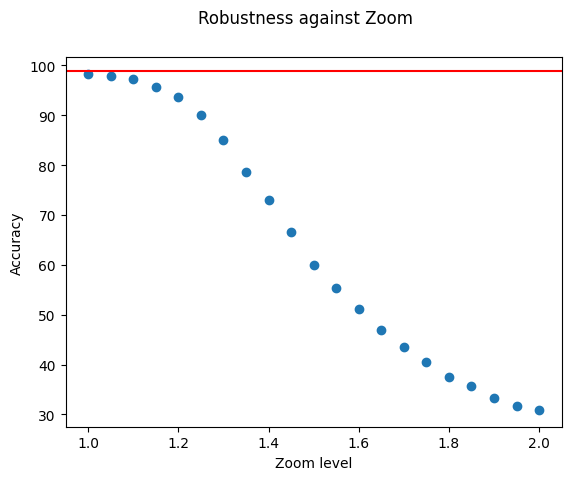
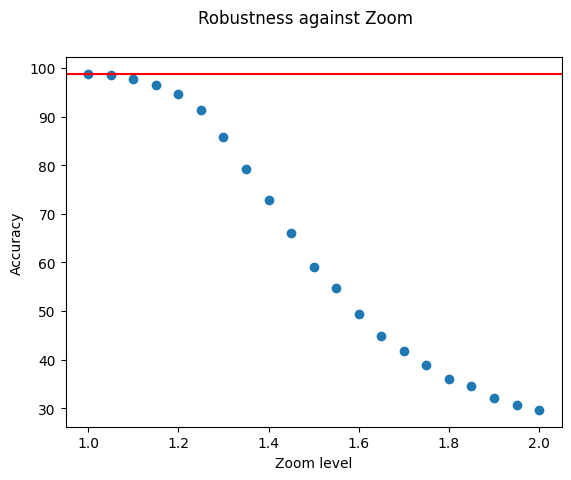
Chapter 6 complete

diff --git a/drafting/TextFiles/RobustnessEval/ExperimentalResults/Zoom.tex b/drafting/TextFiles/RobustnessEval/ExperimentalResults/Zoom.tex
@@ -48,7 +48,7 @@ The uncertainties estimated by the BNN exhibit a defined pattern in this case, a
 \textbf{Classification using aleatoric uncertainty}
 \vspace{0.1cm}
 
-\todo{wating loading}
+The utilization of aleatoric uncertainty yields the results shown in \Fig~\ref{fig:zo_au}. \Fig~\ref{fig:zo_au_acc} indicates a slight improvement in accuracy. However, there is a substantial increase in the unknown ratio, as depicted in \Fig~\ref{fig:zo_au_unkn}. This trade-off between accuracy and unknown ratio is further illustrated in \Fig~\ref{fig:zo_au_eff}, where the effectiveness metric reflects the degradation in performance.
 
 \begin{figure}[h]
 	\centering
@@ -74,7 +74,9 @@ The uncertainties estimated by the BNN exhibit a defined pattern in this case, a
 	\label{fig:zo_au}
 \end{figure}
 
-\Tab~\ref{table:rob_zo_au} presents the quantitative robustness measurements.
+
+\Tab~\ref{table:rob_zo_au} provides the quantitative robustness measurements. While there is a slight improvement in accuracy reflected in the $rob$ metric, the augmented robustness metric demonstrates the poor performance due to the substantial increase in the unknown ratio.
+
 \begin{table}[h]
 	\centering
 	\begin{tabular}{|| l | l ||} 
@@ -82,9 +84,9 @@ The uncertainties estimated by the BNN exhibit a defined pattern in this case, a
 		\textbf{Parameter} & \textbf{Value} \\
 		\hline
 		\hline
-		$rob_{Zoom}$ & $0.7974$ \\
-		$robInd_{Zoom}$ & $0.8667$ \\
-		$robAug_{Zoom}$ & $0.7124$ \\	
+		$rob_{Zoom}$ & $0.7950$ \\
+		$robInd_{Zoom}$ & $0.8901$ \\
+		$robAug_{Zoom}$ & $0.7209$ \\	
 		\hline
 	\end{tabular}	
 	\caption{Robustness metrics for zoom when the aleatoric uncertainty is employed}
@@ -130,9 +132,9 @@ The outcomes obtained using epistemic uncertainty are displayed in \Fig~\ref{fig
 		\textbf{Parameter} & \textbf{Value} \\
 		\hline
 		\hline
-		$rob_{Zoom}$ & $0.7991$ \\
-		$robInd_{Zoom}$ & $0.8598$ \\
-		$robAug_{Zoom}$ & $0.7060$ \\	
+		$rob_{Zoom}$ & $0.7988$ \\
+		$robInd_{Zoom}$ & $0.8560$ \\
+		$robAug_{Zoom}$ & $0.7058$ \\	
 		\hline
 	\end{tabular}	
 	\caption{Robustness metrics for zoom alteration when the epistemic uncertainty is employed}
@@ -143,7 +145,9 @@ The outcomes obtained using epistemic uncertainty are displayed in \Fig~\ref{fig
 \textbf{Classification using standard deviation}
 \vspace{0.1cm}
 
-The results obtained when using standard deviation, as illustrated in \Fig~\ref{fig:zo_vu}, exhibit the same behavior as when using aleatoric uncertainty.
+The results obtained when using standard deviation, as illustrated in \Fig~\ref{fig:zo_vu}, exhibit the same behavior as when using aleatoric uncertainty. As always, the standard deviation is more pessimistic, leading to a better trend in accuracy, \Fig~\ref{fig:zo_vu_acc}, but balanced by a high unknown ratio, \Fig~\ref{fig:zo_vu_unkn}.
+
+\Fig~\ref{fig:zo_vu} exhibits the same behavior as when using aleatoric uncertainty. As usual, the standard deviation is more pessimistic, leading to a better trend in accuracy, \Fig~\ref{fig:zo_vu_acc}, but this is balanced by a high unknown ratio, seen in \Fig~\ref{fig:zo_vu_unkn}.
 
 \begin{figure}[h]
 	\centering
@@ -157,7 +161,7 @@ The results obtained when using standard deviation, as illustrated in \Fig~\ref{
 		\centering
 		\includegraphics[width=0.9\linewidth]{ImageFiles/EvalBNN/ZO/VU/unkn}
 		\caption{Unknown ratio using \\ standard deviation}
-		\label{fig:co_vu_unkn}
+		\label{fig:zo_vu_unkn}
 	\end{subfigure}%
 	\begin{subfigure}{.33\textwidth}
 		\centering
@@ -178,9 +182,9 @@ The results obtained when using standard deviation, as illustrated in \Fig~\ref{
 		\textbf{Parameter} & \textbf{Value} \\
 		\hline
 		\hline
-		$rob_{Zoom}$ & $0.8102$ \\
+		$rob_{Zoom}$ & $0.8101$ \\
 		$robInd_{Zoom}$ & $0.8432$ \\
-		$robAug_{Zoom}$ & $0.7032$ \\	
+		$robAug_{Zoom}$ & $0.7031$ \\	
 		\hline
 	\end{tabular}	
 	\caption{Robustness metrics for zoom when the standard deviation is employed}
@@ -191,7 +195,7 @@ The results obtained when using standard deviation, as illustrated in \Fig~\ref{
 \textbf{Comparison}
 \vspace{0.1cm}
 
-Table~\ref{table:rob_zo} presents a comparison of the computed metrics. It is evident that the network lacks robustness for any uncertainty type. In this scenario, a possible solution could be to change the network architecture or employ techniques for improving robustness, such as \textit{data augmentation}. Additionally, revising the alteration range and conducting another domain analysis may also be beneficial as the robustness is defined with respect to an alteration range.
+\Tab~\ref{table:rob_zo} provides a summary of the computed metrics. It is evident that the network is not robust against this alteration. In particular, the augmented robustness reflects the trade-off between accuracy and unknown ratio. In this scenario, aleatoric uncertainty provides the best $robAug$, while epistemic uncertainty demonstrates its inability to detect uncertain situations.
 
 \begin{table}[h]
 	\centering
@@ -200,9 +204,9 @@ Table~\ref{table:rob_zo} presents a comparison of the computed metrics. It is ev
 		\textbf{Parameter} & \textbf{Aleatoric} & \textbf{Epistemic} & \textbf{Standard deviation} \\
 		\hline
 		\hline
-		$rob_{Zoom}$ & $0.7974$ & $0.7991$ & $0.8102$ \\
-		$robInd_{Zoom}$ & $0.8667$ & $0.8598$ & $0.8432$ \\
-		$robAug_{Zoom}$ & $0.7125$ & $0.7060$ & $0.7032$ \\	
+		$rob_{Zoom}$ & $0.7950$ & $0.7988$ & $0.8101$ \\
+		$robInd_{Zoom}$ & $0.8901$ & $0.8560$ & $0.8432$ \\
+		$robAug_{Zoom}$ & $0.7209$ & $0.7058$ & $0.7031$ \\	
 		\hline
 	\end{tabular}	
 	\caption{Summary of the robustness metrics for zoom}

diff --git a/drafting/TextFiles/RobustnessEval/ExperimentalResults/Conclusion.tex b/drafting/TextFiles/RobustnessEval/ExperimentalResults/Conclusion.tex
@@ -1,1 +1,9 @@
 \subsection{Conclusions}
+
+In this section, we applied the theoretical methods developed in \Chap~\ref{chap:c4} to assess the robustness of NNs. We began by comparing the robustness between BNN and standard NN. The comparison revealed that both types of networks exhibited similar robustness levels, and the structural limitations of the BNN were still evident, as arisen when faced with translation alterations.
+
+Next, we explored the use of uncertainties estimated by the BNN to improve robustness in terms of accuracy. Our findings indicated that leveraging BNN estimated uncertainties could enhance robustness by helping the network identify uncertain situations and refrain from making incorrect predictions. Among the uncertainty types examined, aleatoric uncertainty generally performed better on average, while epistemic uncertainty proved ineffective at correctly identifying uncertain situations in most cases. Additionally, the use of standard deviation showed similar behavior to aleatoric uncertainty but with a more pessimistic outlook, which could be adjusted through proper confidence level tuning. This parameter was revealed to be crucial in the test setting, as it defines the trade-off between accuracy and the unknown ratio. In summary, aleatoric uncertainty emerged as the preferred metric due to its consistent performance and application independence.
+
+Furthermore, we demonstrated the utility of the effectiveness metric in our analysis. It provided a comprehensive view of network performance by considering both accuracy and the unknown ratio.
+
+Overall, the methods presented in this study offer a quantitative means of identifying and quantifying model weaknesses. They are versatile and adaptable to various applications, providing valuable insights into network robustness.

diff --git a/drafting/TextFiles/Theoretical background/NN.tex b/drafting/TextFiles/Theoretical background/NN.tex
@@ -9,7 +9,7 @@ Neurons are a specialized type of cells found in the human body, responsible for
 
 As shown in \Fig~\ref{fig:neurons}, neurons establish connections with each other through \textit{axons} and \textit{dendrites}, and the regions where these connections occur are known as \textit{synapses}. This enables communication between neurons through electrical events, known as \textit{action potentials}, which occur at the synapses \cite{APS}. 
 
-Each neuron receives stimuli from multiple neurons simultaneously, and these inputs are summed. Action potentials are generated only when the summed value crosses a specific \textbf{threshold}, at which point the neuron emits a \textit{spike}. An example of the \textit{spiking} mechanism is illustrated in \Fig~\ref{fig:spking}.
+Each neuron receives stimuli from multiple neurons simultaneously, and these inputs are summed. Action potentials are generated only when the summed value crosses a specific \textit{threshold}, at which point the neuron emits a \textit{spike}. An example of the \textit{spiking} mechanism is illustrated in \Fig~\ref{fig:spking}.
 
 \begin{figure}[h]
 	\centering

diff --git a/drafting/Tesi.tex b/drafting/Tesi.tex
@@ -72,7 +72,9 @@
 	\listoffigures
 	\mainmatter
 	
-	\chapter*{Introduction}
+	\chapter{Introduction}
+	\import{./TextFiles/}{Introduction.tex}
+	
 	\chapter{Theoretical background}
 	This chapter will cover the fundamental theoretical concepts used in this study. Specifically, we will start by introducing neural networks (NNs), starting from their basic building blocks and progressing to the training phase. Following that, it will be explored a way to improve NNs using a Bayesian approach.
 	
